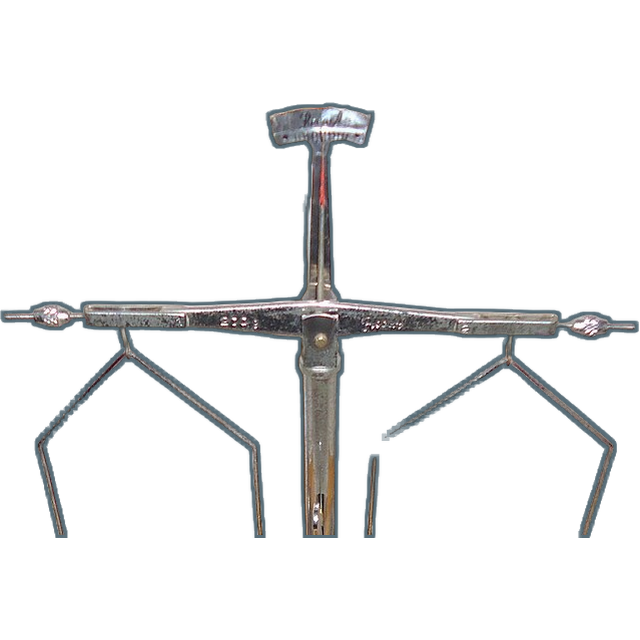
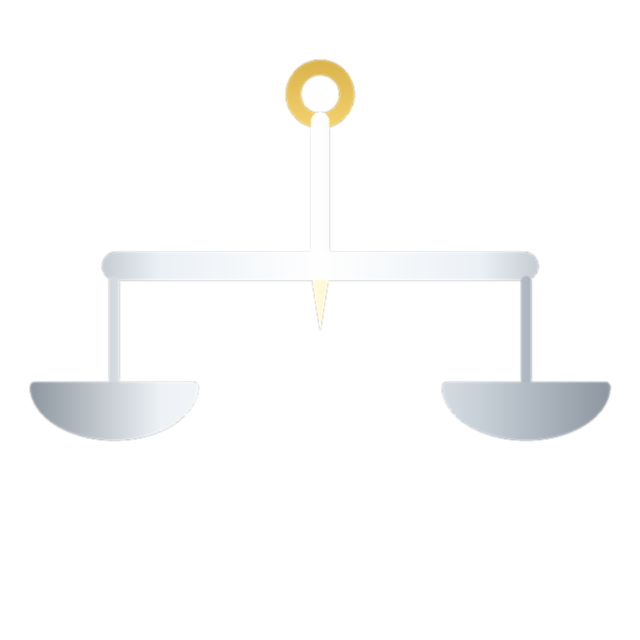
政治天平改手繪金屬質感版（直吊桿、無底座；照片版找不到同時符合的）＋footer 來源；版號 ?v=6

Changed region(s): [[0.0, 0.0938, 1.0, 0.8438], [0.5625, 0.6875, 0.5938, 0.8438]]

diff --git a/t/科目.html b/t/科目.html
@@ -120,7 +120,7 @@ td.zcol2,td.zcol3{box-shadow:2px 0 0 #fff!important}
 tr:nth-child(even) td.zcol2,tr:nth-child(even) td.zcol3{box-shadow:2px 0 0 #f7fcf8!important}
 
 </style></head>
-<body><div class="wrap"><a class="back" href="../index.html">← 回語言對照表</a><h1>科目</h1><div class="sub">點 🔊 聽發音 · 台語／客語若系統沒語音會用拼音朗讀 · 表格可左右滑：<b>圖片＋繁體中文固定</b>不動<br>語言分兩大類，<b>右上角可切換</b>：中華語言（簡體中文·台語·客語）／常見語言（美式英文·英式英文·日文·韓文）</div><div id="catbar"></div><div id="box"><div class="status">載入中…</div></div><div class="note">資料來源：Google 試算表（即時讀取；若讀不到會自動用站內備份快照）</div><div class="note">圖片來源：天壇照片：Balon Greyjoy / Wikimedia Commons（CC0）｜世界地圖：MapChart.net / Wikimedia Commons（CC BY-SA 4.0）｜天平：Mauro Cateb / Wikimedia Commons（CC BY-SA 3.0）｜DNA：Azcolvin429·mstroeck / Wikimedia Commons（CC BY-SA 3.0）</div></div><script>
+<body><div class="wrap"><a class="back" href="../index.html">← 回語言對照表</a><h1>科目</h1><div class="sub">點 🔊 聽發音 · 台語／客語若系統沒語音會用拼音朗讀 · 表格可左右滑：<b>圖片＋繁體中文固定</b>不動<br>語言分兩大類，<b>右上角可切換</b>：中華語言（簡體中文·台語·客語）／常見語言（美式英文·英式英文·日文·韓文）</div><div id="catbar"></div><div id="box"><div class="status">載入中…</div></div><div class="note">資料來源：Google 試算表（即時讀取；若讀不到會自動用站內備份快照）</div><div class="note">圖片來源：天壇照片：Balon Greyjoy / Wikimedia Commons（CC0）｜世界地圖：MapChart.net / Wikimedia Commons（CC BY-SA 4.0）｜天平：U4 手繪（金屬質感）｜DNA：Azcolvin429·mstroeck / Wikimedia Commons（CC BY-SA 3.0）</div></div><script>
 // 語言名稱顯示標題（括號內用該語言自己的寫法）— 孝瓏 2026-09-16「頂端請加()」
 const LANG_LABEL={'簡體中文':'簡體中文（简体中文）',
  '美式英文':'美式英文（American English）',
